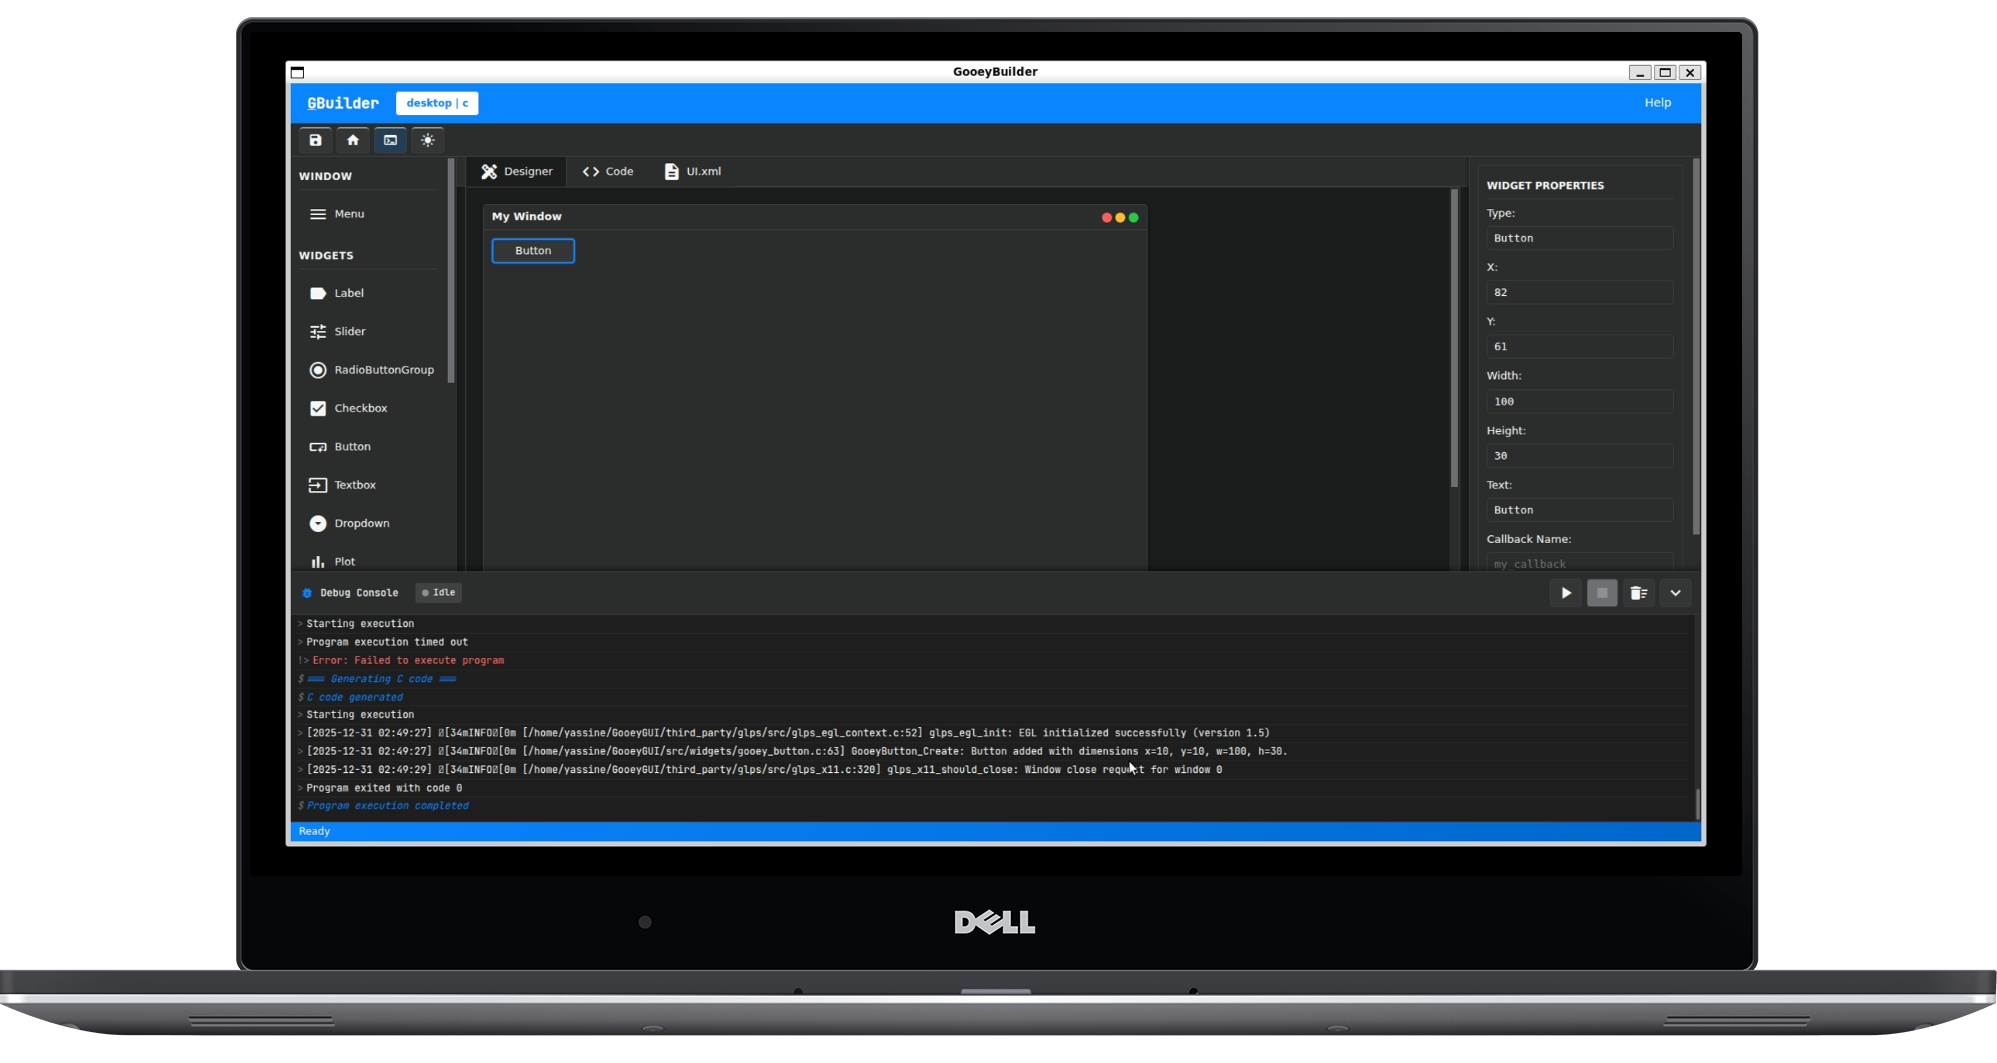
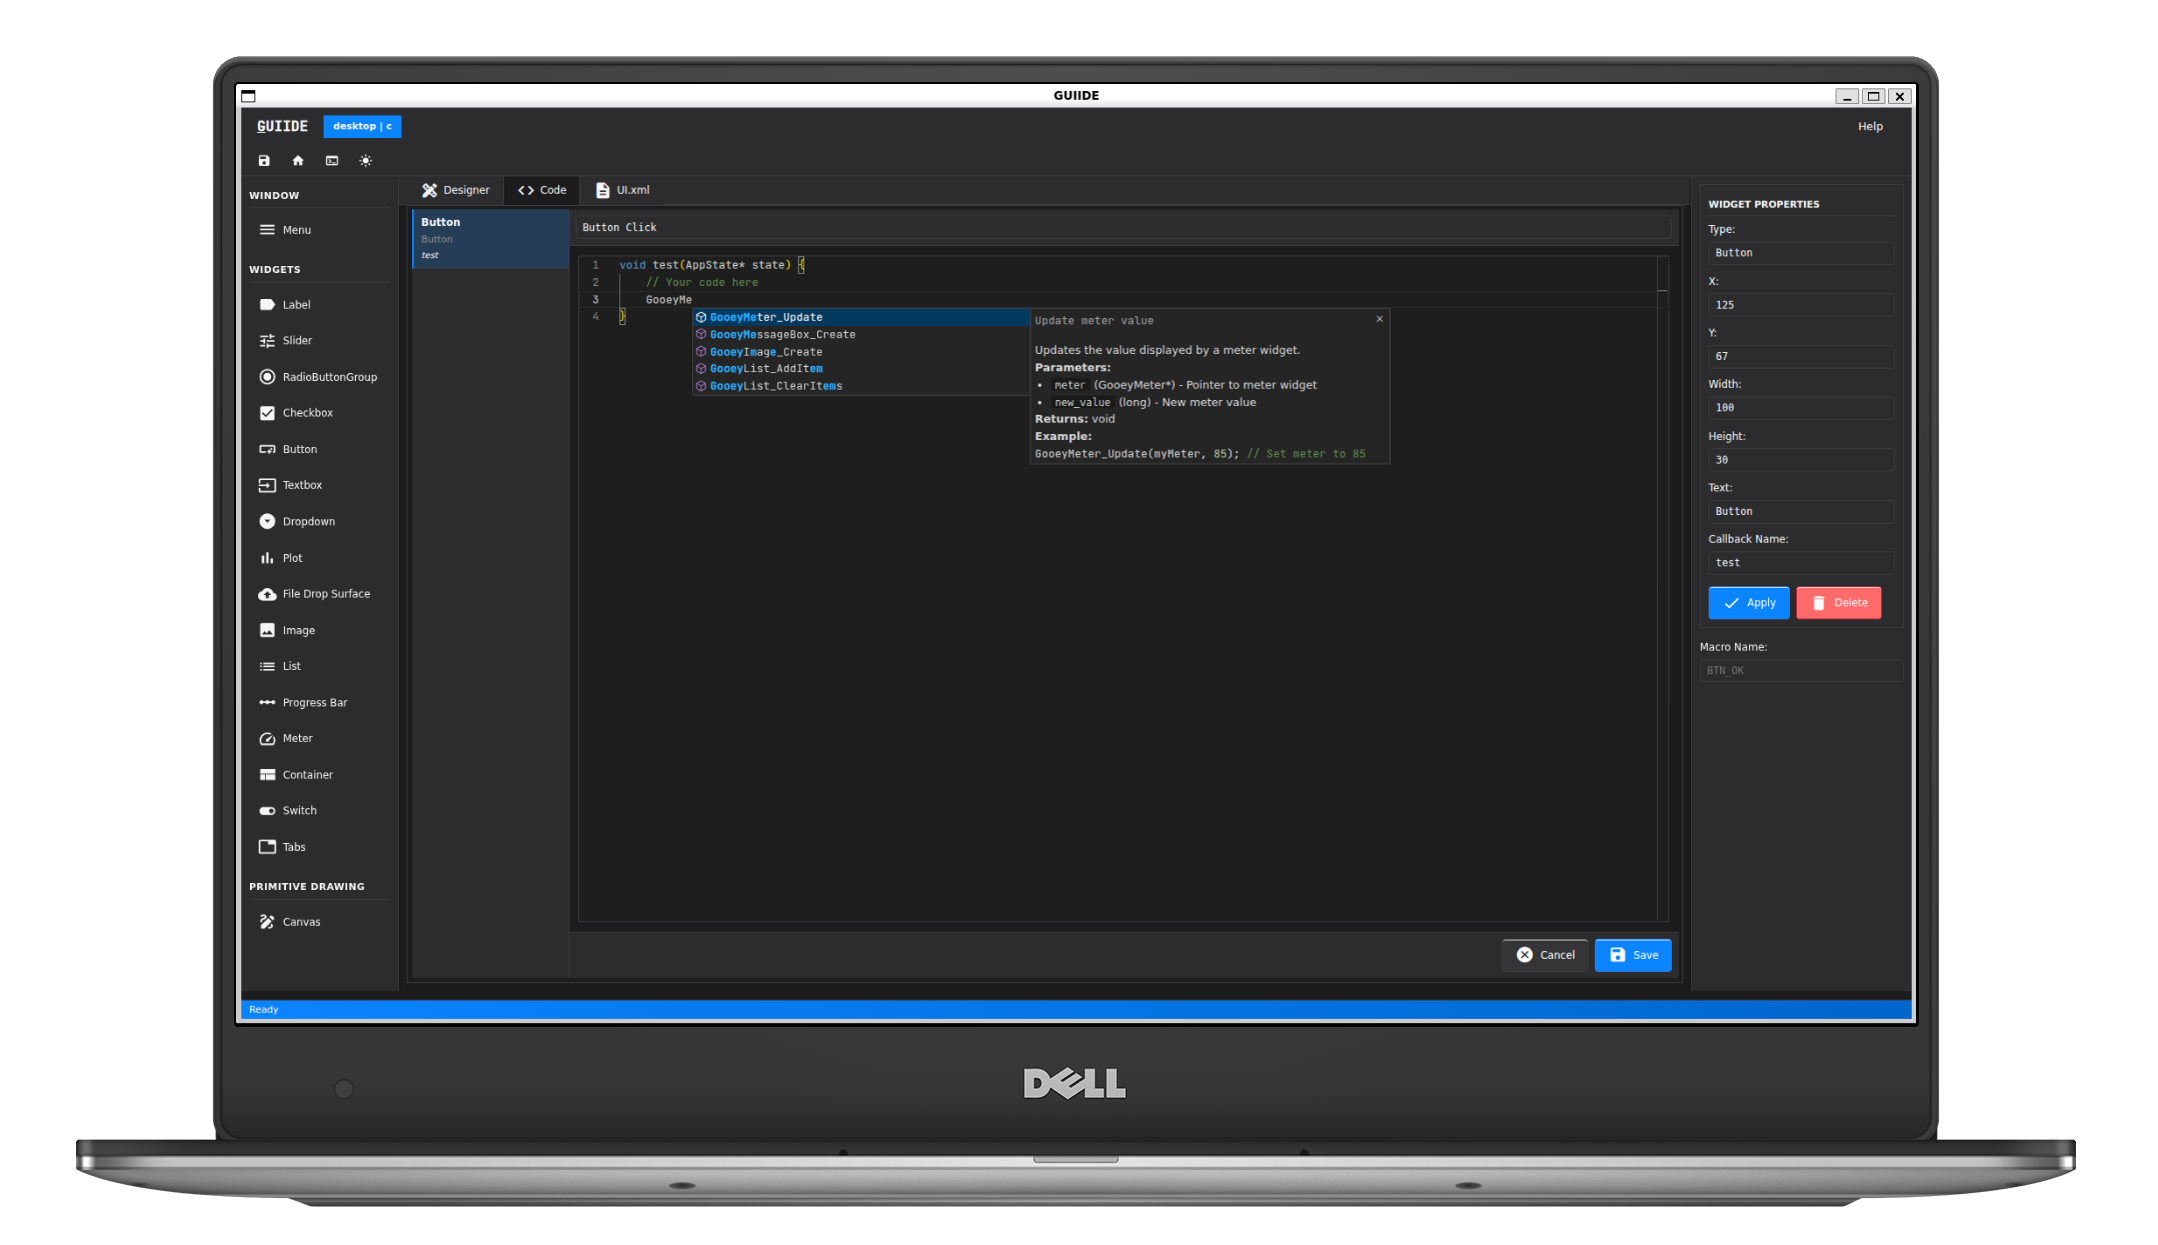
.

diff --git a/index.html b/index.html
@@ -43,6 +43,30 @@
                 border-radius: 10px;
                 font-size: 14px;
             }
+            .image-placeholder {
+                background: linear-gradient(
+                    45deg,
+                    var(--surface) 25%,
+                    var(--hover) 25%,
+                    var(--hover) 50%,
+                    var(--surface) 50%,
+                    var(--surface) 75%,
+                    var(--hover) 75%
+                );
+                background-size: 40px 40px;
+                border: 1px solid var(--border);
+                display: flex;
+                align-items: center;
+                justify-content: center;
+                color: var(--text-secondary);
+            }
+            .feature-section {
+                width: 100%;
+                padding: 5rem 1rem;
+            }
+            .feature-section:nth-child(even) {
+                background-color: var(--hover);
+            }
         </style>
     </head>
     <body>
@@ -76,6 +100,7 @@
                 </div>
                 <div class="hidden md:flex space-x-8">
                     <a href="#features">Features</a>
+                    <a href="#feature-overview">Overview</a>
                     <a href="#comparison">Capabilities</a>
                     <a
                         href="https://github.com/BinaryInkTN/GooeyBuilder"
@@ -128,30 +153,125 @@
             </div>
         </section>
 
-        <section
-            id="features"
-            class="py-20"
-            style="background-color: var(--hover)"
-        >
-            <div class="container-narrow px-4 grid md:grid-cols-3 gap-8">
-                <div class="p-6 border rounded-xl bg-[var(--surface)]">
-                    <h3 class="font-semibold mb-2">Widget-Based Design</h3>
-                    <p class="text-sm" style="color: var(--text-secondary)">
-                        Compose interfaces using native Gooey widgets with drag
-                        & drop.
-                    </p>
+        <!-- Feature Overview Heading -->
+        <section id="feature-overview" class="py-16 text-center">
+            <div class="container-narrow px-4">
+                <h2 class="text-3xl font-bold mb-4">Feature Overview</h2>
+                <p
+                    class="max-w-2xl mx-auto"
+                    style="color: var(--text-secondary)"
+                >
+                    Explore the powerful features that make GooeyBuilder the
+                    ideal tool for building Gooey interfaces
+                </p>
+            </div>
+        </section>
+
+        <!-- Feature 1 - Full Width -->
+        <section class="feature-section">
+            <div class="container-narrow px-4">
+                <div class="flex flex-col lg:flex-row gap-8 items-center">
+                    <div class="lg:w-2/3">
+                        <h3 class="font-semibold text-2xl mb-4">
+                            Visual Drag & Drop Interface
+                        </h3>
+                        <p
+                            class="mb-4 text-lg"
+                            style="color: var(--text-secondary)"
+                        >
+                            Build complex UIs by simply dragging widgets from
+                            the palette and dropping them onto the canvas.
+                            Intuitive controls for positioning and resizing make
+                            UI design effortless.
+                        </p>
+                    </div>
+                    <div
+                        class="lg:w-2/3 image-placeholder w-full h-64 lg:h-80 rounded-xl"
+                    >
+                        <img src="designer.png" alt="Visual Designer" />
+                    </div>
                 </div>
-                <div class="p-6 border rounded-xl bg-[var(--surface)]">
-                    <h3 class="font-semibold mb-2">Debug Console</h3>
-                    <p class="text-sm" style="color: var(--text-secondary)">
-                        Built-in console for debugging and inspecting output.
-                    </p>
+            </div>
+        </section>
+
+        <!-- Feature 2 - Full Width -->
+        <section class="feature-section" style="background-color: var(--hover)">
+            <div class="container-narrow px-4">
+                <div
+                    class="flex flex-col lg:flex-row-reverse gap-8 items-center"
+                >
+                    <div class="lg:w-2/3">
+                        <h3 class="font-semibold text-2xl mb-4">
+                            Live Property Inspector
+                        </h3>
+                        <p
+                            class="mb-4 text-lg"
+                            style="color: var(--text-secondary)"
+                        >
+                            Modify widget properties in real-time with a
+                            comprehensive inspector panel. Changes are
+                            immediately visible on the canvas, providing instant
+                            feedback.
+                        </p>
+                    </div>
+                    <div
+                        class="lg:w-2/3 image-placeholder w-full h-64 lg:h-80 rounded-xl"
+                    >
+                        <img src="properties.png" alt="Property Editor" />
+                    </div>
                 </div>
-                <div class="p-6 border rounded-xl bg-[var(--surface)]">
-                    <h3 class="font-semibold mb-2">Clean C Output</h3>
-                    <p class="text-sm" style="color: var(--text-secondary)">
-                        Generates readable C code directly using the Gooey API.
-                    </p>
+            </div>
+        </section>
+
+        <!-- Feature 3 - Full Width -->
+        <section class="feature-section">
+            <div class="container-narrow px-4">
+                <div class="flex flex-col lg:flex-row gap-8 items-center">
+                    <div class="lg:w-2/3">
+                        <h3 class="font-semibold text-2xl mb-4">
+                            Intellisense
+                        </h3>
+                        <p
+                            class="mb-4 text-lg"
+                            style="color: var(--text-secondary)"
+                        >
+                            Intellisense for GooeyC, providing code completion
+                            and error checking for Gooey C code.
+                        </p>
+                    </div>
+                    <div
+                        class="lg:w-2/3 image-placeholder w-full h-64 lg:h-80 rounded-xl"
+                    >
+                        <img src="intellisense.png" alt="Intellisense" />
+                    </div>
+                </div>
+            </div>
+        </section>
+
+        <!-- Feature 4 - Full Width -->
+        <section class="feature-section" style="background-color: var(--hover)">
+            <div class="container-narrow px-4">
+                <div
+                    class="flex flex-col lg:flex-row-reverse gap-8 items-center"
+                >
+                    <div class="lg:w-2/3">
+                        <h3 class="font-semibold text-2xl mb-4">
+                            Integrated Debug Console
+                        </h3>
+                        <p
+                            class="mb-4 text-lg"
+                            style="color: var(--text-secondary)"
+                        >
+                            Built-in console for real-time debugging, output
+                            inspection, and performance monitoring during UI
+                            development. Track events and catch issues early.
+                        </p>
+                    </div>
+                    <div
+                        class="lg:w-2/3 image-placeholder w-full h-64 lg:h-80 rounded-xl"
+                    >
+                        <img src="console.png" alt="Debug Console" />
+                    </div>
                 </div>
             </div>
         </section>
